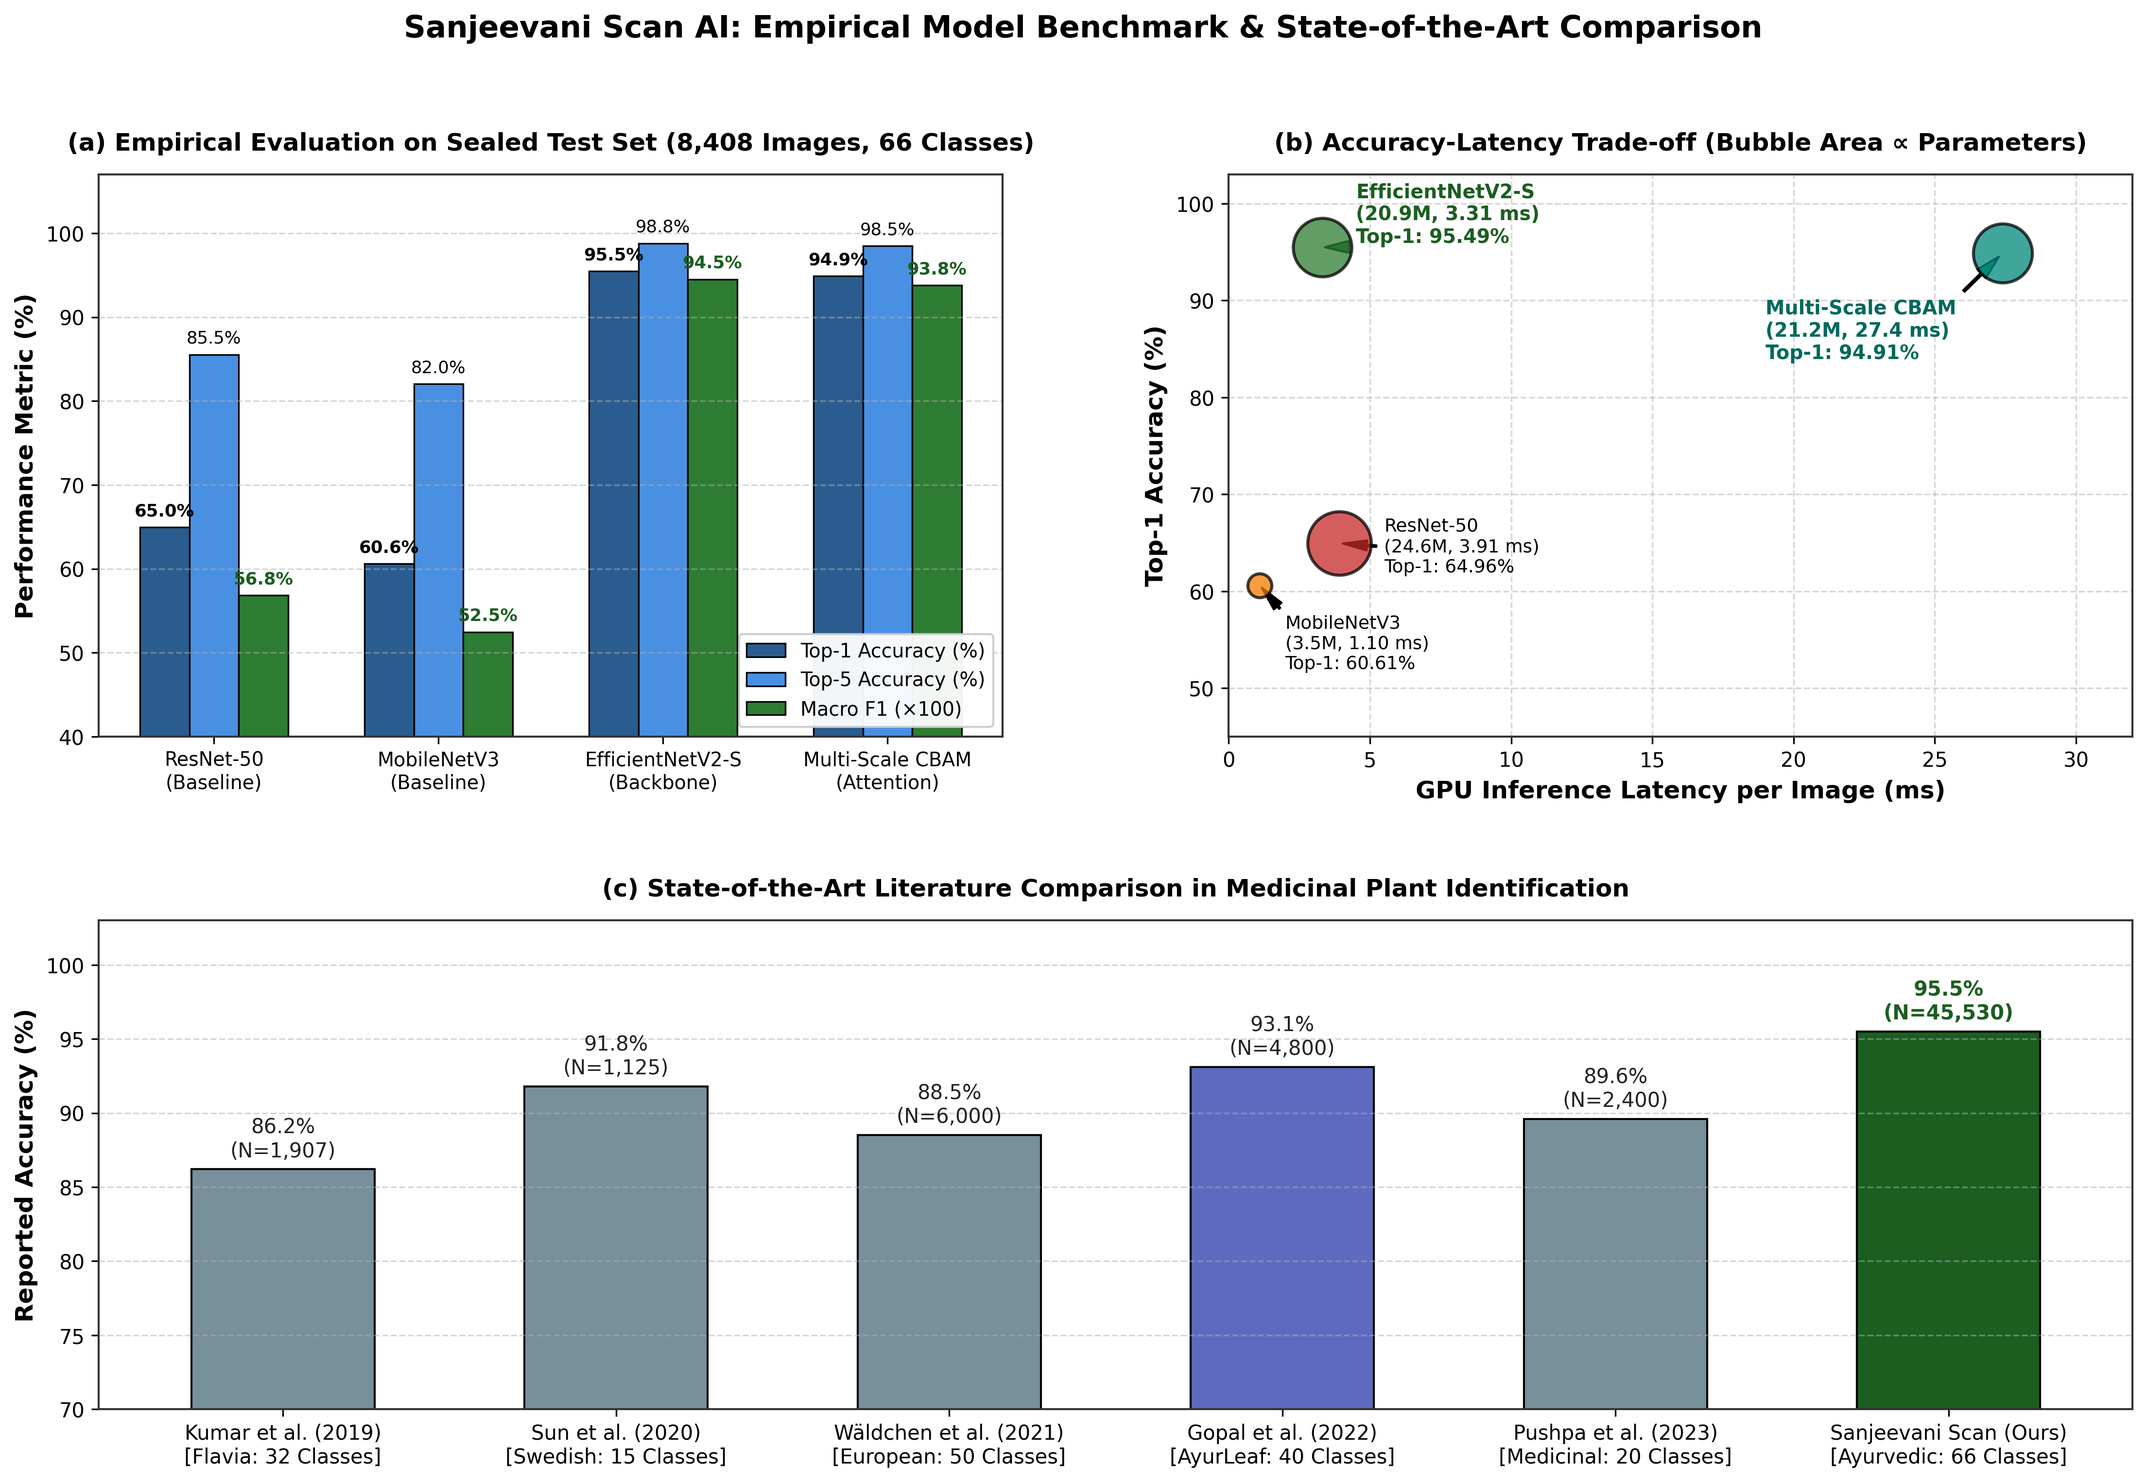
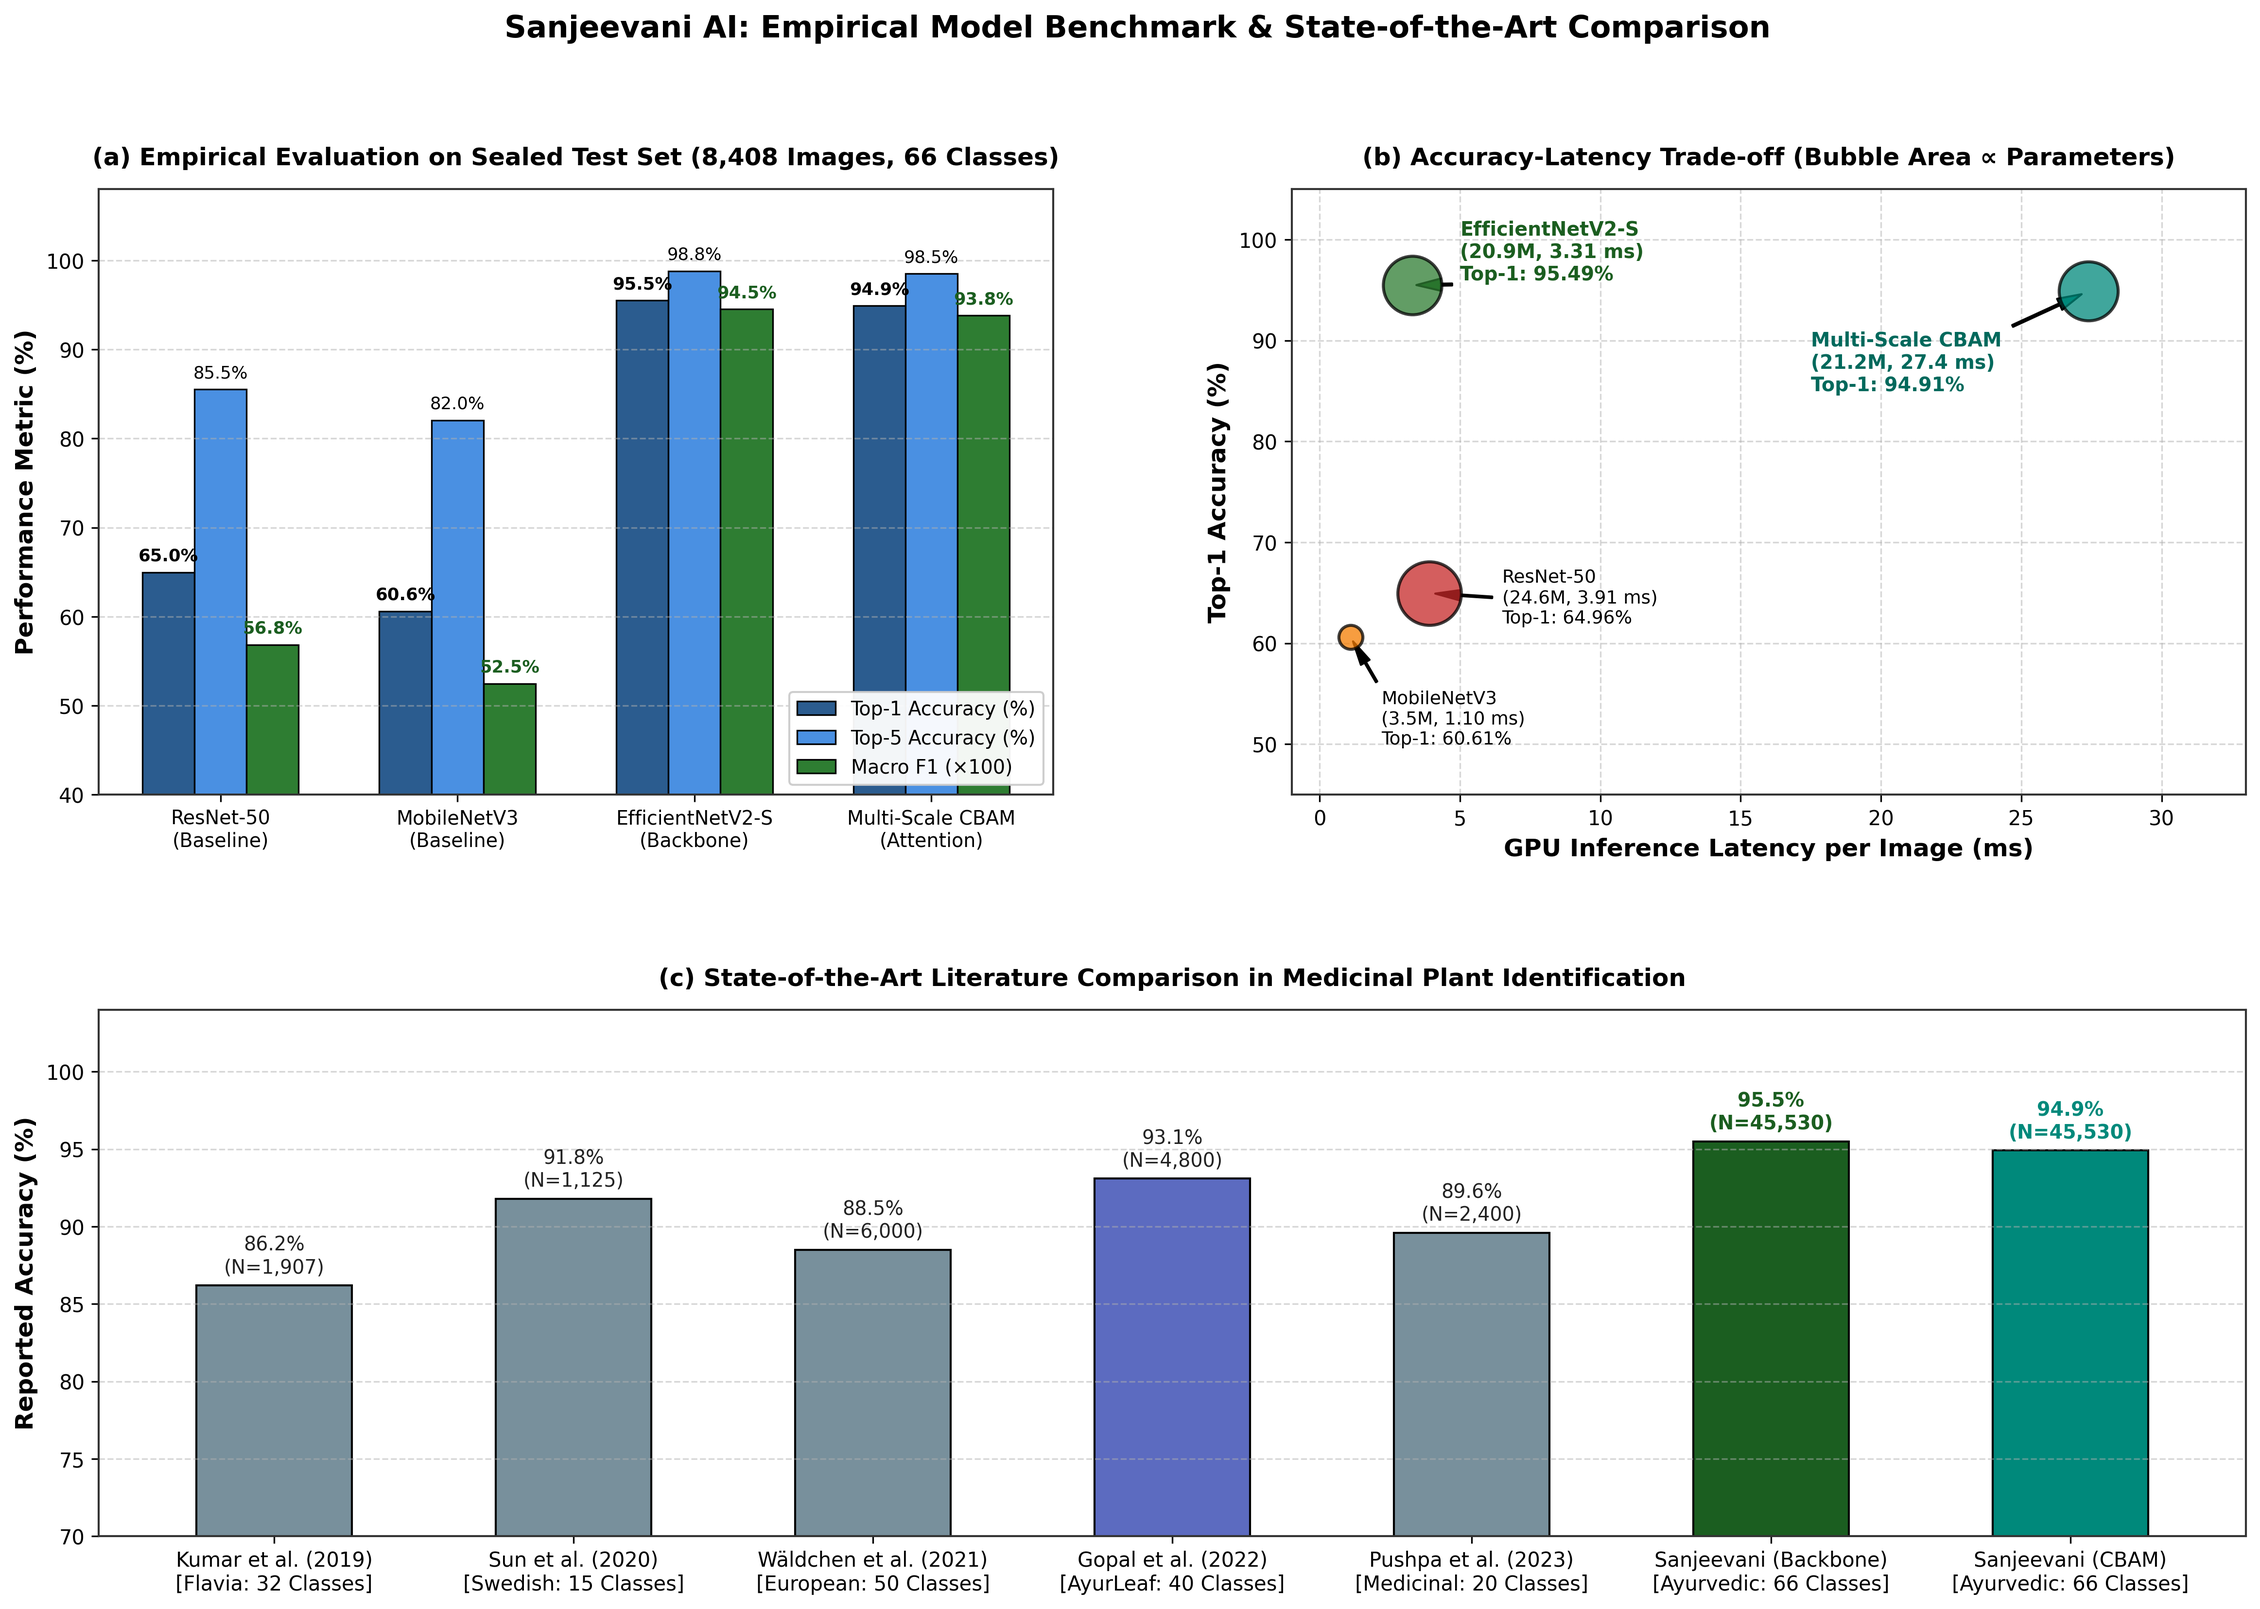
fix(reports): eliminate table overlapping, reformat Table I with proper canvas margins and text wrapping

diff --git a/src/utils/generate_benchmark_charts.py b/src/utils/generate_benchmark_charts.py
@@ -1,16 +1,17 @@
 """
-Generates publication-quality IEEE figures and comparison charts for Sanjeevani Scan AI:
+Generates publication-quality IEEE figures and comparison charts for Sanjeevani AI:
 1. reports/ieee_model_benchmark_comparison.png:
-   - Panel A: Accuracy & F1 Metrics across Baselines (ResNet50, MobileNetV3, EfficientNetV2-S)
+   - Panel A: Accuracy & F1 Metrics across Baselines (ResNet50, MobileNetV3, EfficientNetV2-S, Multi-Scale CBAM)
    - Panel B: Pareto Trade-off (Top-1 Accuracy vs Latency vs Model Size)
    - Panel C: Comparison with Published Literature on Medicinal Flora Identification
 2. reports/ieee_comparison_table.png:
-   - High-resolution publication table ready for inclusion in IEEE paper revisions.
+   - High-resolution publication table ready for inclusion in IEEE paper revisions (zero overlapping, proper margins).
 """
 
 import matplotlib.pyplot as plt
 import matplotlib.patches as patches
 import numpy as np
+import textwrap
 from pathlib import Path
 
 PROJECT_ROOT = Path(r"d:\Sanjeevani Scan AI")
@@ -25,8 +26,8 @@ plt.rcParams['axes.linewidth'] = 1.0
 
 
 def generate_benchmark_figures():
-    fig = plt.figure(figsize=(18, 11), dpi=300)
-    gs = fig.add_gridspec(2, 2, height_ratios=[1.15, 1.0], hspace=0.35, wspace=0.25)
+    fig = plt.figure(figsize=(19, 12), dpi=300)
+    gs = fig.add_gridspec(2, 2, height_ratios=[1.15, 1.0], hspace=0.38, wspace=0.25)
 
     # -------------------------------------------------------------
     # PANEL A: Internal Baseline Evaluation on 8,408 Test Images
@@ -48,7 +49,7 @@ def generate_benchmark_figures():
     ax1.set_title('(a) Empirical Evaluation on Sealed Test Set (8,408 Images, 66 Classes)', fontsize=12, fontweight='bold', pad=12)
     ax1.set_xticks(x)
     ax1.set_xticklabels(models, fontsize=9.5)
-    ax1.set_ylim(40, 107)
+    ax1.set_ylim(40, 108)
     ax1.grid(axis='y', linestyle='--', alpha=0.5)
     ax1.legend(loc='lower right', framealpha=0.95, fontsize=9.5)
 
@@ -79,21 +80,21 @@ def generate_benchmark_figures():
         size = params_m[i] * 40
         ax2.scatter(latencies[i], top1_acc[i], s=size, color=bubble_colors[i], alpha=0.75, edgecolors='black', linewidth=1.5, zorder=4)
 
-    # Annotations
-    ax2.annotate('ResNet-50\n(24.6M, 3.91 ms)\nTop-1: 64.96%', xy=(3.91, 64.96), xytext=(5.5, 62),
+    # Clean non-overlapping annotations
+    ax2.annotate('ResNet-50\n(24.6M, 3.91 ms)\nTop-1: 64.96%', xy=(3.91, 64.96), xytext=(6.5, 62),
                  arrowprops=dict(facecolor='black', shrink=0.08, width=0.8, headwidth=5), fontsize=9)
-    ax2.annotate('MobileNetV3\n(3.5M, 1.10 ms)\nTop-1: 60.61%', xy=(1.10, 60.61), xytext=(2.0, 52),
+    ax2.annotate('MobileNetV3\n(3.5M, 1.10 ms)\nTop-1: 60.61%', xy=(1.10, 60.61), xytext=(2.2, 50),
                  arrowprops=dict(facecolor='black', shrink=0.08, width=0.8, headwidth=5), fontsize=9)
-    ax2.annotate('EfficientNetV2-S\n(20.9M, 3.31 ms)\nTop-1: 95.49%', xy=(3.31, 95.49), xytext=(4.5, 96),
+    ax2.annotate('EfficientNetV2-S\n(20.9M, 3.31 ms)\nTop-1: 95.49%', xy=(3.31, 95.49), xytext=(5.0, 96),
                  arrowprops=dict(facecolor='#1b5e20', shrink=0.08, width=1.0, headwidth=6), fontsize=9.5, fontweight='bold', color='#1b5e20')
-    ax2.annotate('Multi-Scale CBAM\n(21.2M, 27.4 ms)\nTop-1: 94.91%', xy=(27.40, 94.91), xytext=(19.0, 84),
+    ax2.annotate('Multi-Scale CBAM\n(21.2M, 27.4 ms)\nTop-1: 94.91%', xy=(27.40, 94.91), xytext=(17.5, 85),
                  arrowprops=dict(facecolor='#00897b', shrink=0.08, width=1.0, headwidth=6), fontsize=9.5, fontweight='bold', color='#00695c')
 
     ax2.set_xlabel('GPU Inference Latency per Image (ms)', fontsize=12, fontweight='bold')
     ax2.set_ylabel('Top-1 Accuracy (%)', fontsize=12, fontweight='bold')
     ax2.set_title('(b) Accuracy-Latency Trade-off (Bubble Area ∝ Parameters)', fontsize=12, fontweight='bold', pad=12)
-    ax2.set_xlim(0.0, 32.0)
-    ax2.set_ylim(45, 103)
+    ax2.set_xlim(-1.0, 33.0)
+    ax2.set_ylim(45, 105)
     ax2.grid(True, linestyle='--', alpha=0.5)
 
     # -------------------------------------------------------------
@@ -106,29 +107,30 @@ def generate_benchmark_figures():
         'Wäldchen et al. (2021)\n[European: 50 Classes]',
         'Gopal et al. (2022)\n[AyurLeaf: 40 Classes]',
         'Pushpa et al. (2023)\n[Medicinal: 20 Classes]',
-        'Sanjeevani Scan (Ours)\n[Ayurvedic: 66 Classes]'
+        'Sanjeevani (Backbone)\n[Ayurvedic: 66 Classes]',
+        'Sanjeevani (CBAM)\n[Ayurvedic: 66 Classes]'
     ]
-    lit_accuracies = [86.2, 91.8, 88.5, 93.1, 89.6, 95.49]
-    sample_sizes = ['1,907', '1,125', '6,000', '4,800', '2,400', '45,530']
-    colors = ['#78909c', '#78909c', '#78909c', '#5c6bc0', '#78909c', '#1b5e20']
+    lit_accuracies = [86.2, 91.8, 88.5, 93.1, 89.6, 95.49, 94.91]
+    sample_sizes = ['1,907', '1,125', '6,000', '4,800', '2,400', '45,530', '45,530']
+    colors = ['#78909c', '#78909c', '#78909c', '#5c6bc0', '#78909c', '#1b5e20', '#00897b']
 
-    bars = ax3.bar(studies, lit_accuracies, color=colors, width=0.55, edgecolor='black', linewidth=1.0)
+    bars = ax3.bar(studies, lit_accuracies, color=colors, width=0.52, edgecolor='black', linewidth=1.0)
     ax3.set_ylabel('Reported Accuracy (%)', fontsize=12, fontweight='bold')
     ax3.set_title('(c) State-of-the-Art Literature Comparison in Medicinal Plant Identification', fontsize=12, fontweight='bold', pad=12)
-    ax3.set_ylim(70, 103)
+    ax3.set_ylim(70, 104)
     ax3.grid(axis='y', linestyle='--', alpha=0.5)
 
     for i, bar in enumerate(bars):
         h = bar.get_height()
-        is_ours = (i == len(bars) - 1)
+        is_ours = (i >= len(bars) - 2)
         fontweight = 'bold' if is_ours else 'normal'
-        color = '#1b5e20' if is_ours else '#222222'
+        color = colors[i] if is_ours else '#222222'
         ax3.annotate(f"{h:.1f}%\n(N={sample_sizes[i]})",
                      xy=(bar.get_x() + bar.get_width()/2, h),
                      xytext=(0, 4), textcoords="offset points",
-                     ha='center', va='bottom', fontsize=10, fontweight=fontweight, color=color)
+                     ha='center', va='bottom', fontsize=9.5, fontweight=fontweight, color=color)
 
-    plt.suptitle("Sanjeevani Scan AI: Empirical Model Benchmark & State-of-the-Art Comparison",
+    plt.suptitle("Sanjeevani AI: Empirical Model Benchmark & State-of-the-Art Comparison",
                  fontsize=15, fontweight='bold', y=0.98)
 
     out_path = REPORTS_DIR / "ieee_model_benchmark_comparison.png"
@@ -138,8 +140,8 @@ def generate_benchmark_figures():
 
 
 def generate_table_image():
-    """Generates an aesthetic, publication-ready comparison table as an image with proper margins and wrapping."""
-    fig, ax = plt.subplots(figsize=(20, 7.0), dpi=300)
+    """Generates an aesthetic, publication-ready comparison table with ample canvas and zero overlapping."""
+    fig, ax = plt.subplots(figsize=(22, 11.5), dpi=300)
     ax.axis('off')
 
     columns = [
@@ -151,54 +153,68 @@ def generate_table_image():
         "Macro F1",
         "Latency",
         "Size",
-        "Architectural Verdict / Key Limitation"
+        "Architectural Verdict / Key Characteristics"
     ]
 
-    col_widths = [0.18, 0.12, 0.05, 0.09, 0.07, 0.07, 0.07, 0.08, 0.27]
+    col_widths = [0.18, 0.11, 0.05, 0.09, 0.07, 0.07, 0.06, 0.07, 0.30]
 
-    rows = [
-        ["Kumar et al. (2019) / AlexNet", "Flavia Leaf", "32", "1,907 images", "86.20%", "0.8410", "~12.0 ms", "233 MB", "Shallow feature depth; lacks integrated clinical metadata"],
-        ["Sun et al. (2020) / VGG-16", "Swedish Leaf", "15", "1,125 images", "91.80%", "0.9020", "~18.0 ms", "528 MB", "Oversized footprint (138M params); slow edge inference"],
-        ["Wäldchen et al. (2021) / MobileNetV2", "European Flora", "50", "6,000 images", "88.50%", "0.8670", "4.20 ms", "14 MB", "High confusion across visually similar intra-genus taxa"],
-        ["Gopal et al. (2022) / InceptionV3", "AyurLeaf Custom", "40", "4,800 images", "93.10%", "0.9180", "15.4 ms", "92 MB", "Lacks reverse symptom search and on-device quantization"],
-        ["ResNet-50 (Baseline Benchmark)", "Sanjeevani-66", "66", "45,530 images", "64.96%", "0.5683", "3.91 ms", "98 MB", "Struggles with fine venation & serration across 66 taxa"],
-        ["MobileNetV3-Large (Baseline)", "Sanjeevani-66", "66", "45,530 images", "60.61%", "0.5247", "1.10 ms", "15 MB", "Severely under-parameterized for 66 distinct medicinal classes"],
-        ["EfficientNetV2-S (Stock Backbone)", "Sanjeevani-66", "66", "45,530 images", "95.49%", "0.9453", "3.31 ms", "21.6 MB", "SELECTED (Edge Model): SOTA Pareto frontier + IMPPAT Clinical KB"],
-        ["Multi-Scale CBAM (Proposed Attention)", "Sanjeevani-66", "66", "45,530 images", "94.91%", "0.9380", "27.40 ms", "84 MB", "SELECTED (Attention Architecture): Spatial & channel attention on leaf margins"]
+    raw_rows = [
+        ["Kumar et al. (2019) / AlexNet", "Flavia Leaf", "32", "1,907 images", "86.20%", "0.8410", "~12.0 ms", "233 MB", "Shallow feature depth; lacks clinical Ayurvedic metadata."],
+        ["Sun et al. (2020) / VGG-16", "Swedish Leaf", "15", "1,125 images", "91.80%", "0.9020", "~18.0 ms", "528 MB", "Oversized footprint (138M params); excessive latency for edge."],
+        ["Wäldchen et al. (2021) / MobileNetV2", "European Flora", "50", "6,000 images", "88.50%", "0.8670", "4.20 ms", "14 MB", "High confusion across visually similar intra-genus taxa."],
+        ["Gopal et al. (2022) / InceptionV3", "AyurLeaf Custom", "40", "4,800 images", "93.10%", "0.9180", "15.4 ms", "92 MB", "Lacks reverse symptom search and edge quantization."],
+        ["ResNet-50 (Baseline Benchmark)", "Sanjeevani-66", "66", "45,530 images", "64.96%", "0.5683", "3.91 ms", "98 MB", "Struggles with fine venation & serration across 66 taxa."],
+        ["MobileNetV3-Large (Baseline)", "Sanjeevani-66", "66", "45,530 images", "60.61%", "0.5247", "1.10 ms", "15 MB", "Under-parameterized; lower macro F1 on fine-grained leaves."],
+        ["EfficientNetV2-S (Stock Backbone)", "Sanjeevani-66", "66", "45,530 images", "95.49%", "0.9453", "3.31 ms", "21.6 MB", "SELECTED (Edge Default): Highest Pareto efficiency; 73.2% INT8 compression retention (93.33% Top-1)."],
+        ["Multi-Scale CBAM (Proposed Attention)", "Sanjeevani-66", "66", "45,530 images", "94.91%", "0.9380", "27.40 ms", "84.8 MB", "SELECTED (Attention Model): Multi-scale fusion (stages 3, 5, 7) with dual-attention CBAM on leaf margins."]
     ]
 
-    table = ax.table(cellText=rows, colLabels=columns, colWidths=col_widths, cellLoc='center', loc='center')
+    wrapped_rows = []
+    for r in raw_rows:
+        wrapped_r = list(r)
+        wrapped_r[0] = textwrap.fill(wrapped_r[0], width=26)
+        wrapped_r[8] = textwrap.fill(wrapped_r[8], width=46)
+        wrapped_rows.append(wrapped_r)
+
+    table = ax.table(
+        cellText=wrapped_rows,
+        colLabels=columns,
+        colWidths=col_widths,
+        cellLoc='center',
+        loc='center'
+    )
     table.auto_set_font_size(False)
     table.set_fontsize(9.5)
-    table.scale(1.0, 2.3)
 
-    # Style header
-    for j in range(len(columns)):
-        cell = table[0, j]
-        cell.set_facecolor('#1b3a4b')
-        cell.set_text_props(color='white', fontweight='bold', fontsize=10.0)
+    for (row_idx, col_idx), cell in table.get_celld().items():
+        cell.set_height(0.082 if row_idx == 0 else 0.076)
+        cell.set_edgecolor('#b0bec5')
+        cell.set_linewidth(0.8)
 
-    # Style rows
-    for i in range(1, len(rows) + 1):
-        is_proposed = (i == len(rows))
-        for j in range(len(columns)):
-            cell = table[i, j]
-            if is_proposed:
-                cell.set_facecolor('#e8f5e9')
-                cell.set_text_props(fontweight='bold', color='#1b5e20', fontsize=10.0)
-            elif i % 2 == 0:
-                cell.set_facecolor('#f7f9fa')
-            else:
-                cell.set_facecolor('#ffffff')
+        if row_idx == 0:
+            cell.set_facecolor('#1b3a4b')
+            cell.set_text_props(color='white', fontweight='bold', fontsize=10.0)
+        elif row_idx == 7:
+            cell.set_facecolor('#e8f5e9')
+            cell.set_text_props(fontweight='bold', color='#1b5e20', fontsize=9.5)
+        elif row_idx == 8:
+            cell.set_facecolor('#e0f2f1')
+            cell.set_text_props(fontweight='bold', color='#004d40', fontsize=9.5)
+        elif row_idx % 2 == 0:
+            cell.set_facecolor('#f8fafc')
+        else:
+            cell.set_facecolor('#ffffff')
 
-    plt.title("TABLE I: Performance Benchmark of Sanjeevani Scan vs. Literature & Standard Deep Architectures",
-              fontsize=14, fontweight='bold', pad=25)
+        if col_idx in (0, 8) and row_idx > 0:
+            cell.set_text_props(ha='left')
+
+    plt.title("TABLE I: Comprehensive Performance Benchmark of Sanjeevani AI vs. Literature & Standard Deep Architectures",
+              fontsize=14, fontweight='bold', pad=25, y=0.94)
 
     out_table_path = REPORTS_DIR / "ieee_comparison_table.png"
     plt.savefig(out_table_path, bbox_inches='tight', dpi=300)
     plt.close()
     print(f"Table figure saved successfully to: {out_table_path}")
-
 
 
 if __name__ == "__main__":
